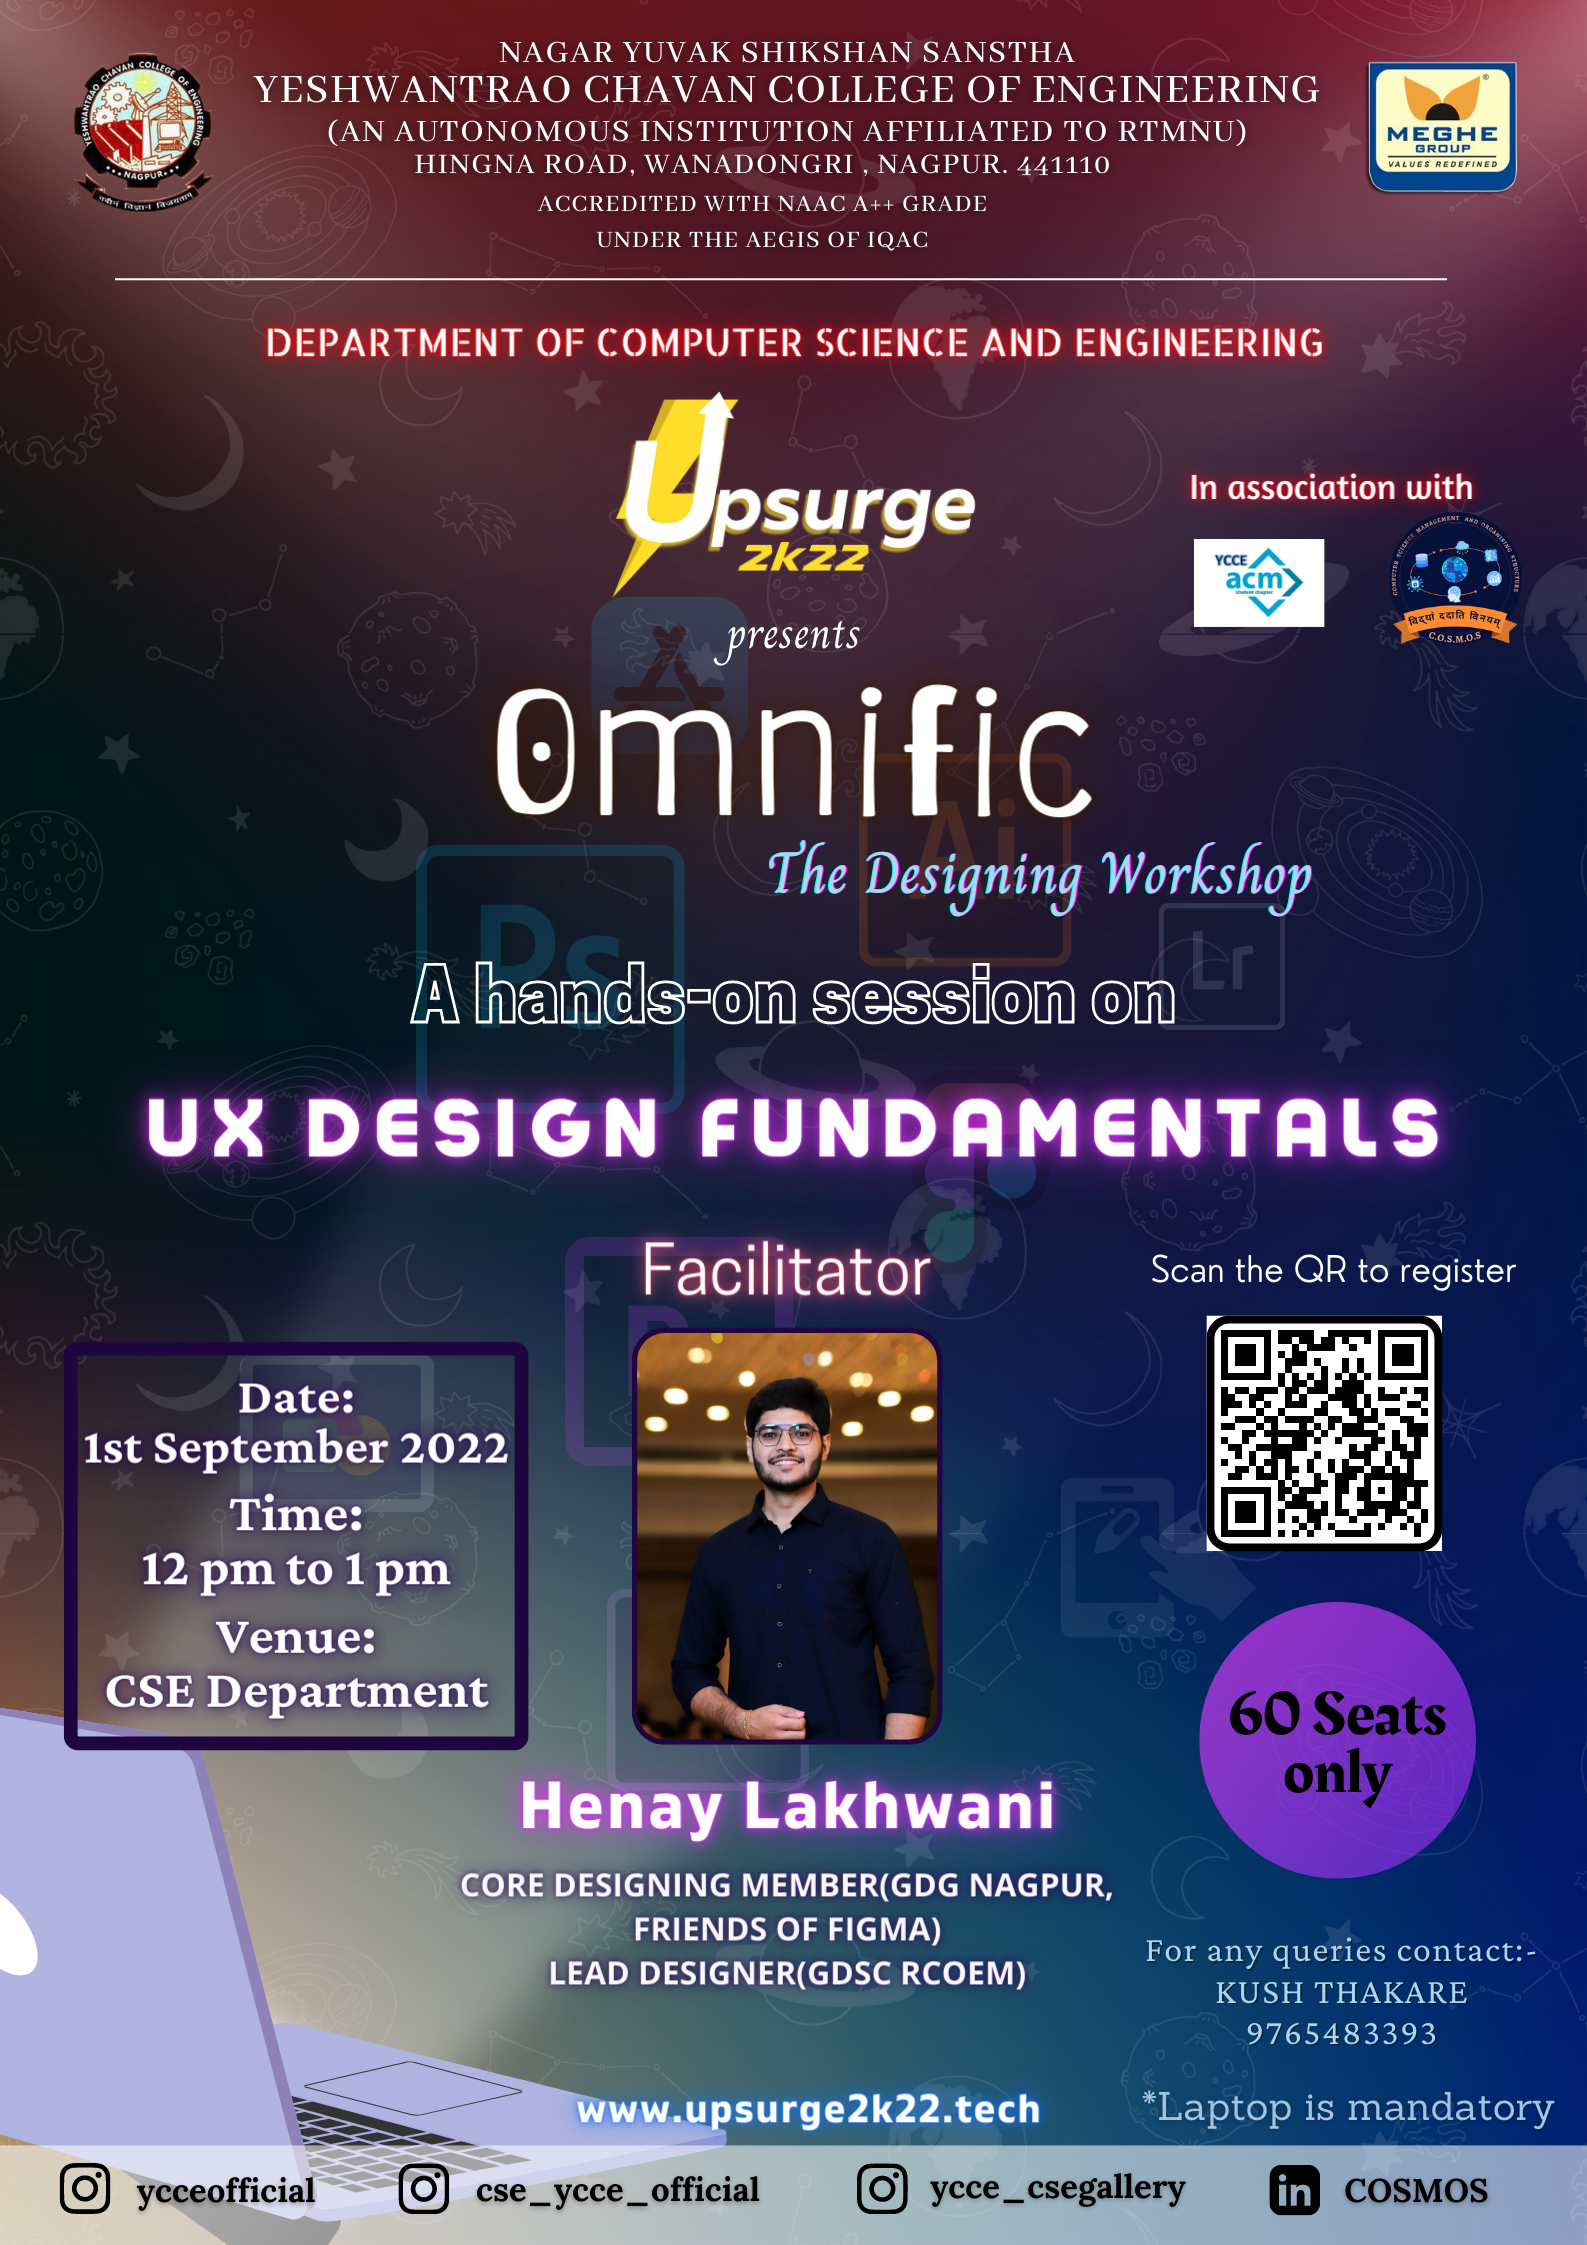
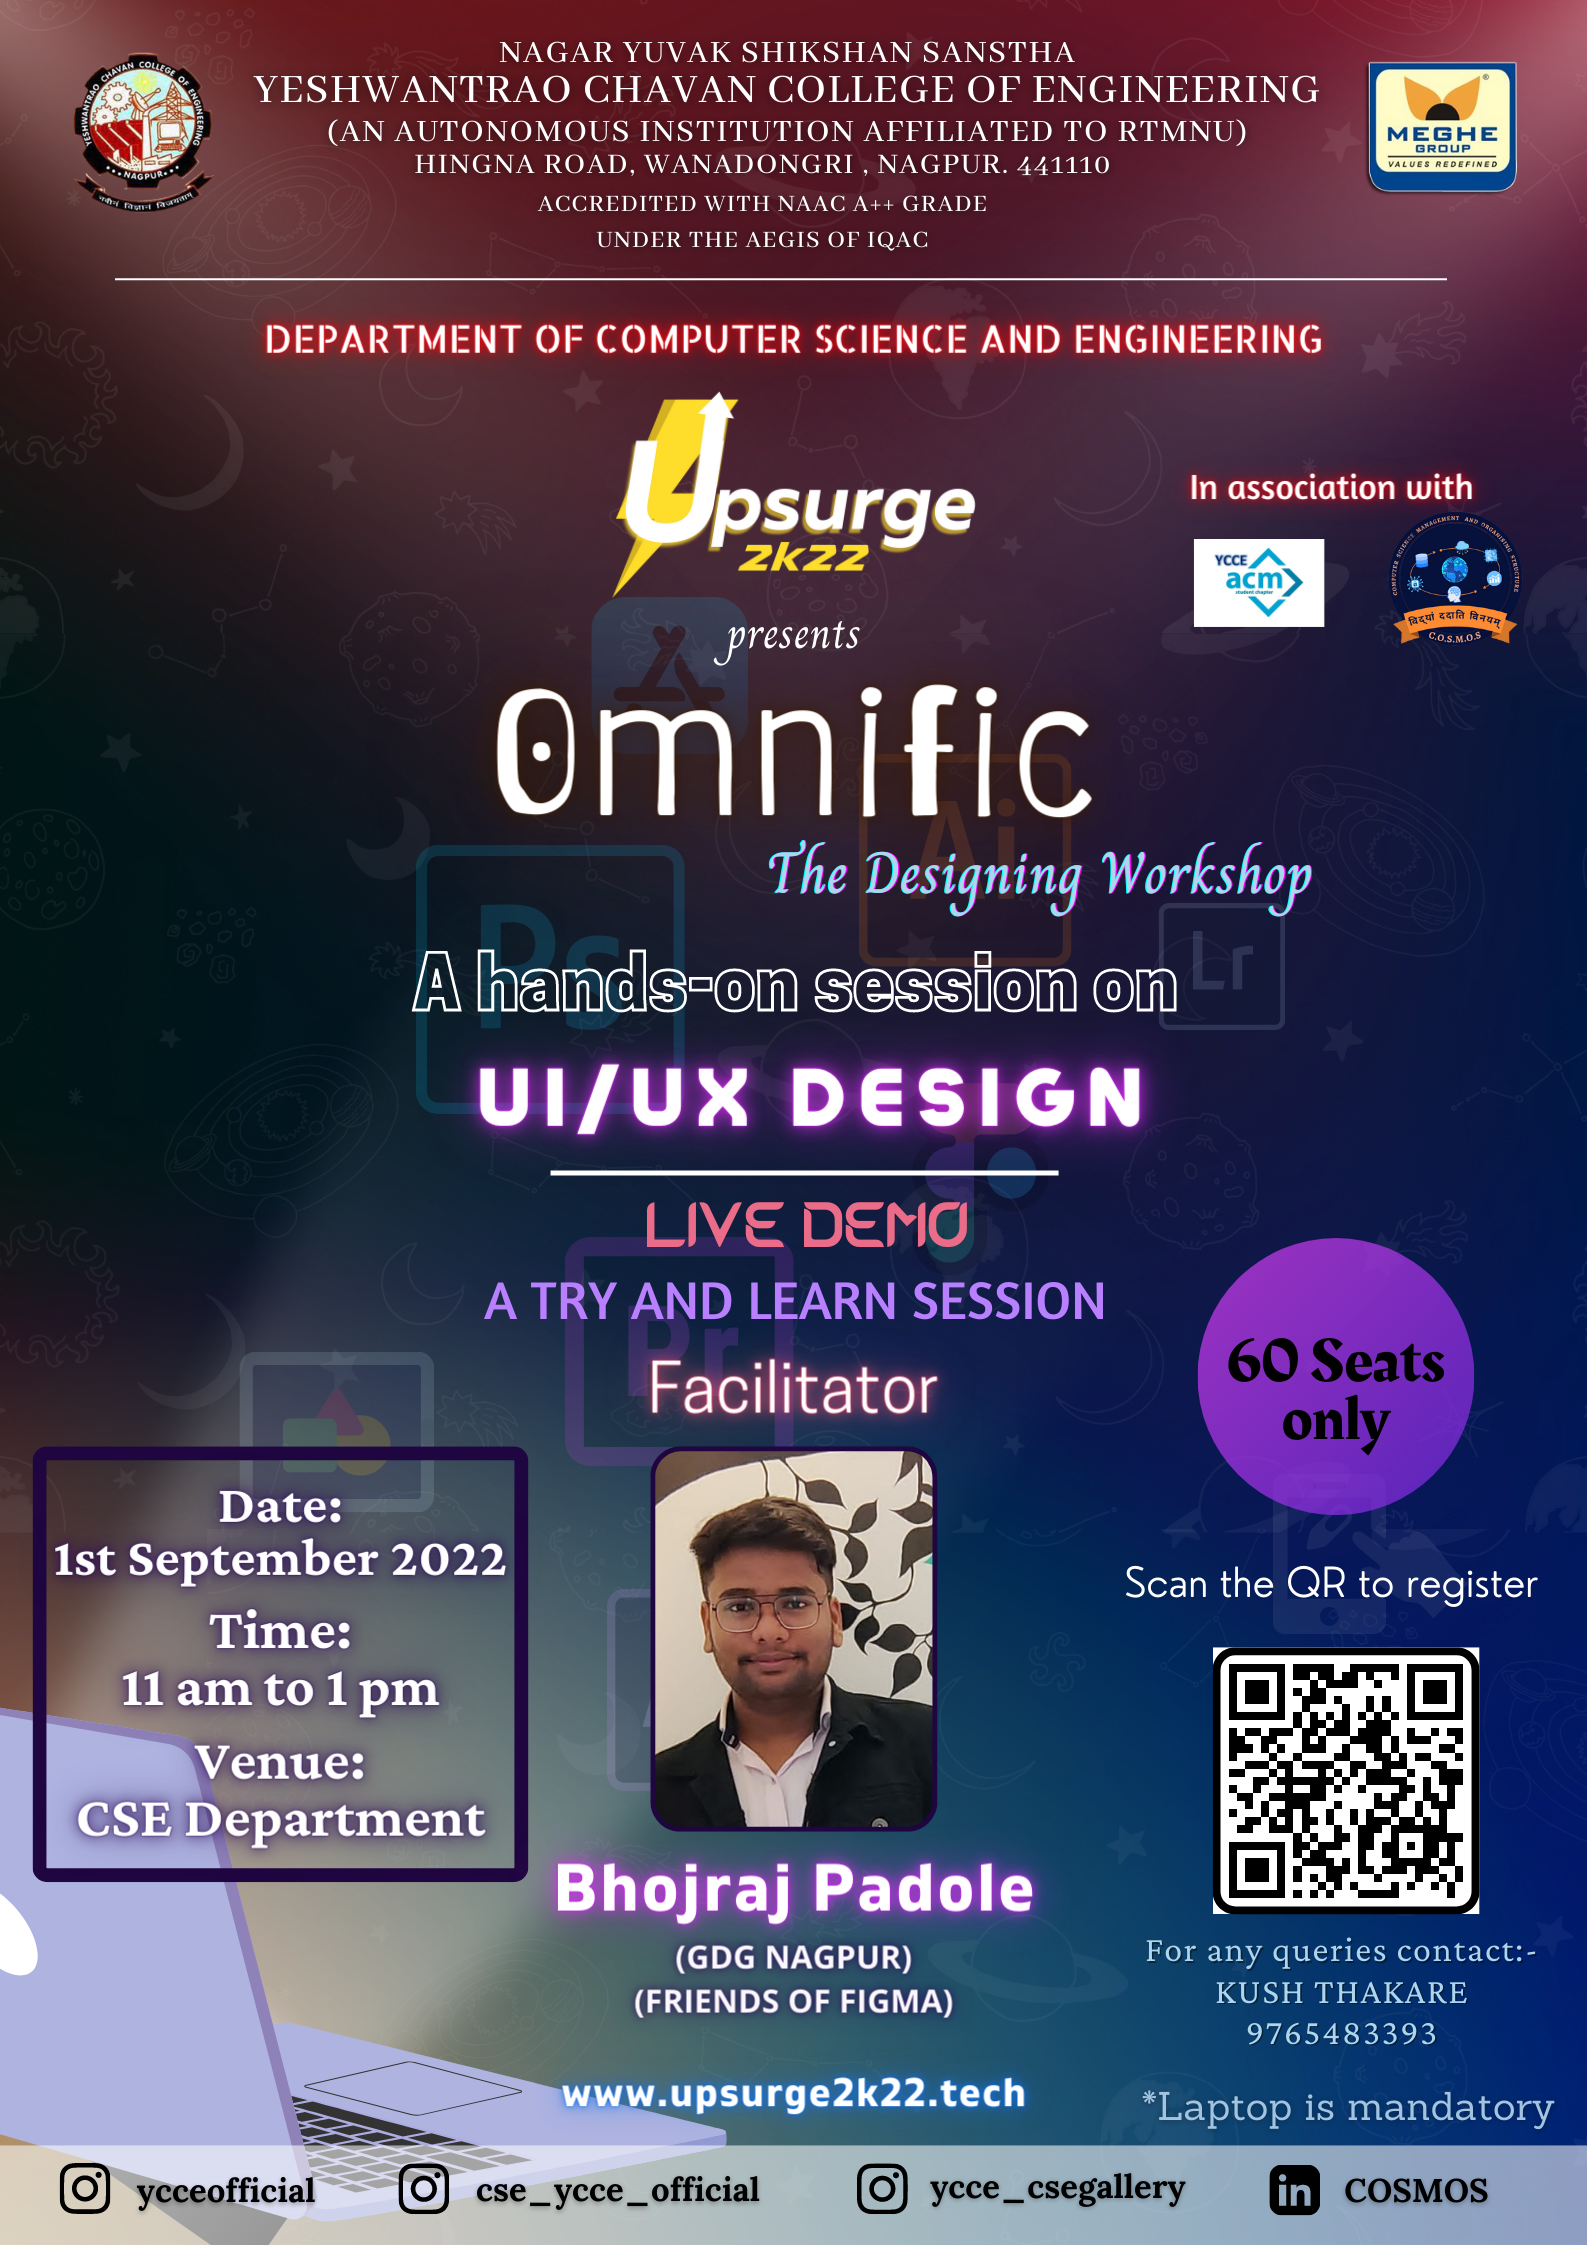
final

diff --git a/Omnific1.html b/Omnific1.html
@@ -5,7 +5,7 @@
     <meta charset="UTF-8">
     <meta http-equiv="X-UA-Compatible" content="IE=edge">
     <meta name="viewport" content="width=device-width, initial-scale=1.0">
-    <title>Event</title>
+    <title>OMNIFIC</title>
     <link rel="icon" href="img/ups.ico">
         <!-- ----------fontawesom-------------- -->
     <script src="https://kit.fontawesome.com/e2f3c2ee96.js" crossorigin="anonymous"></script>
@@ -69,11 +69,11 @@
                         </div>
                 </a> -->
   
-            <!-- <a href="">
+            <a href="https://forms.gle/AxFbiCmWwxEQYbG4A">
               <div class="submit">
                 <p>Register</p>
               </div>
-            </a> -->
+            </a>
           </div>
         </div>
   
@@ -85,7 +85,7 @@
             </div>
       
             <div class="nav-bar">
-              <button name="about" onmousemove="roundText2()" value="About">
+              <button name="about" onmousemove="roundText5()" value="About">
                 About
               </button>
               <button name="timeline" onmousemove="roundText3()">Timeline</button>
@@ -94,7 +94,7 @@
             </div>
       
             <div class="contain" id="demo">
-              <p>A hands-on session on <br>“UX DESIGN FUNDAMENTALS”.
+              <p>A hands-on session on <br>“UI/UX DESIGN”.
                 A one-hour workshop where no pre-requisite knowledge is required.It is an in-person event  where you can interact directly with the facilitator.The workshop is completely free of cost
                 .The event is limited to 60 seats only ,so book your seats now.
                 </p>

diff --git a/index.html b/index.html
@@ -130,8 +130,8 @@
           </div>
           <div class="carousel-item active"><a href="Magic_pen.html"><img id="smack" src="img/magic.jpg" class="d-block w-100" alt="..."></a>
           </div>
-          <!-- <div class="carousel-item active"><a href="Omnific1.html"><img id="smack" src="img/OMNIFIC.png" class="d-block w-100" alt="..."></a>
-          </div> -->
+          <div class="carousel-item active"><a href="Omnific1.html"><img id="smack" src="img/OMNIFIC.png" class="d-block w-100" alt="..."></a>
+          </div>
           <div class="carousel-item active"><a href="Tnt.html"><img id="smack" src="img/TnT final poster.png" class="d-block w-100" alt="..."></a>
           </div>
           <div class="carousel-item active"><a href="github.html"><img id="smack" src="img/git.jpg" class="d-block w-100" alt="..."></a>
@@ -166,7 +166,7 @@
           </a></small>
         </div>
       </div>
-      <!-- <div class="card">
+      <div class="card">
         <img src="img/omni.png" class="card-img-top" alt="...">
         <div class="card-body">
           <h5 class="card-title">OMNIFIC</h5>
@@ -177,7 +177,7 @@
             Lets go Design...
           </a></small>
         </div>
-      </div> -->
+      </div>
       <div class="card">
         <img src="img/mag.png" class="card-img-top" alt="...">
         <div class="card-body">

diff --git a/javascript/js.js b/javascript/js.js
@@ -303,7 +303,7 @@ function contactround() {
 
 function roundText5() {
   const main = document.getElementById("demo");
-  const externalHTML = `<p>A hands-on session on “UX DESIGN FUNDAMENTALS”.
+  const externalHTML = `<p>A hands-on session on <br> “UI/UX DESIGN”.
   A one-hour workshop where no pre-requisite knowledge is required.It is an in-person event  where you can interact directly with the facilitator.The workshop is completely free of cost
   .The event is limited to 60 seats only ,so book your seats now.</p>`;
   main.innerHTML = externalHTML;
@@ -311,7 +311,7 @@ function roundText5() {
 function roundText3() {
   const main = document.getElementById("demo");
   const externalHTML = `<p>Date:1st September 2K22<br>
-  Time:12pm-1pm<br>
+  Time:11am-1pm<br>
   Venue: CSE Department, YCCE</p>`;
   main.innerHTML = externalHTML;
 }
@@ -321,8 +321,9 @@ function speaker() {
   <div class="person8"></div>
   </div>
 </div>
-<p>Henay Lakhwani<br>
-Core Designing Member(GDG Nagpur,Friends of Figma ,Lead Designer(GDSC RCOEM)</p>`;
+<p>Bhojraj Padole <br>
+(GDG Nagpur,Friends of Figma)
+</p>`;
   main.innerHTML = externalHTML;
 }
 function contactround2() {

diff --git a/css/media_query.css b/css/media_query.css
@@ -344,6 +344,10 @@
         width: 30vw;
         background-size: 30vw;
     }
+    .event-img2 {
+        width: 30vw;
+        background-size: 30vw;
+    }
     .event-img1 {
         width: 30vw;
         background-size: 30vw;
